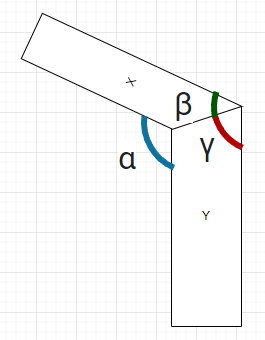
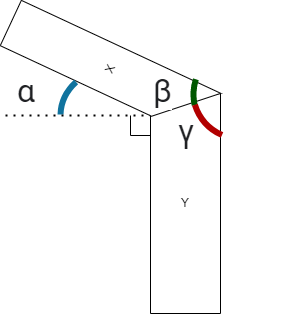
Обновил на угол подъёма.

diff --git a/docs/index.html b/docs/index.html
@@ -92,14 +92,14 @@
 				          label-align-sm="right"
 				          label-size="sm"
 				          class="mb-0"
-						  description="Угол между досками"	          
+						  description="Угол подъёма"	          
 				        >
 				          <b-input-group size="sm">
 				            <b-form-input
 				              id="alpha-input"
 				              v-model="alpha"
 				              type="number"
-				              placeholder="Угол между досками"
+				              placeholder="Угол подъёма"
 				            ></b-form-input>
 				          </b-input-group>
 				        </b-form-group>		
@@ -165,18 +165,18 @@
 			new Vue({
 				  el: '#calculator-app',
 				  data: {
-					  x: 1,
-					  y: 1,
-					  alpha: 90
+					  x: 2.5,
+					  y: 3.5,
+					  alpha: 30
 				  },				  
 				  computed: {
 					  beta: function() {
-						  let arad = this.alpha * Math.PI / 180;
+						  let arad = (90.0 + parseInt(this.alpha)) * Math.PI / 180;
 						  let result = Math.atan(Math.sin(arad)/(this.y/this.x + Math.cos(arad)))*180/Math.PI;
 						  return Math.round(result * 100) / 100;
 					  },
 					  gamma: function() {
-						  let result = this.alpha - this.beta;
+						  let result = this.alpha - this.beta + 90;
 						  return Math.round(result * 100) / 100;
 					  }
 				  }
